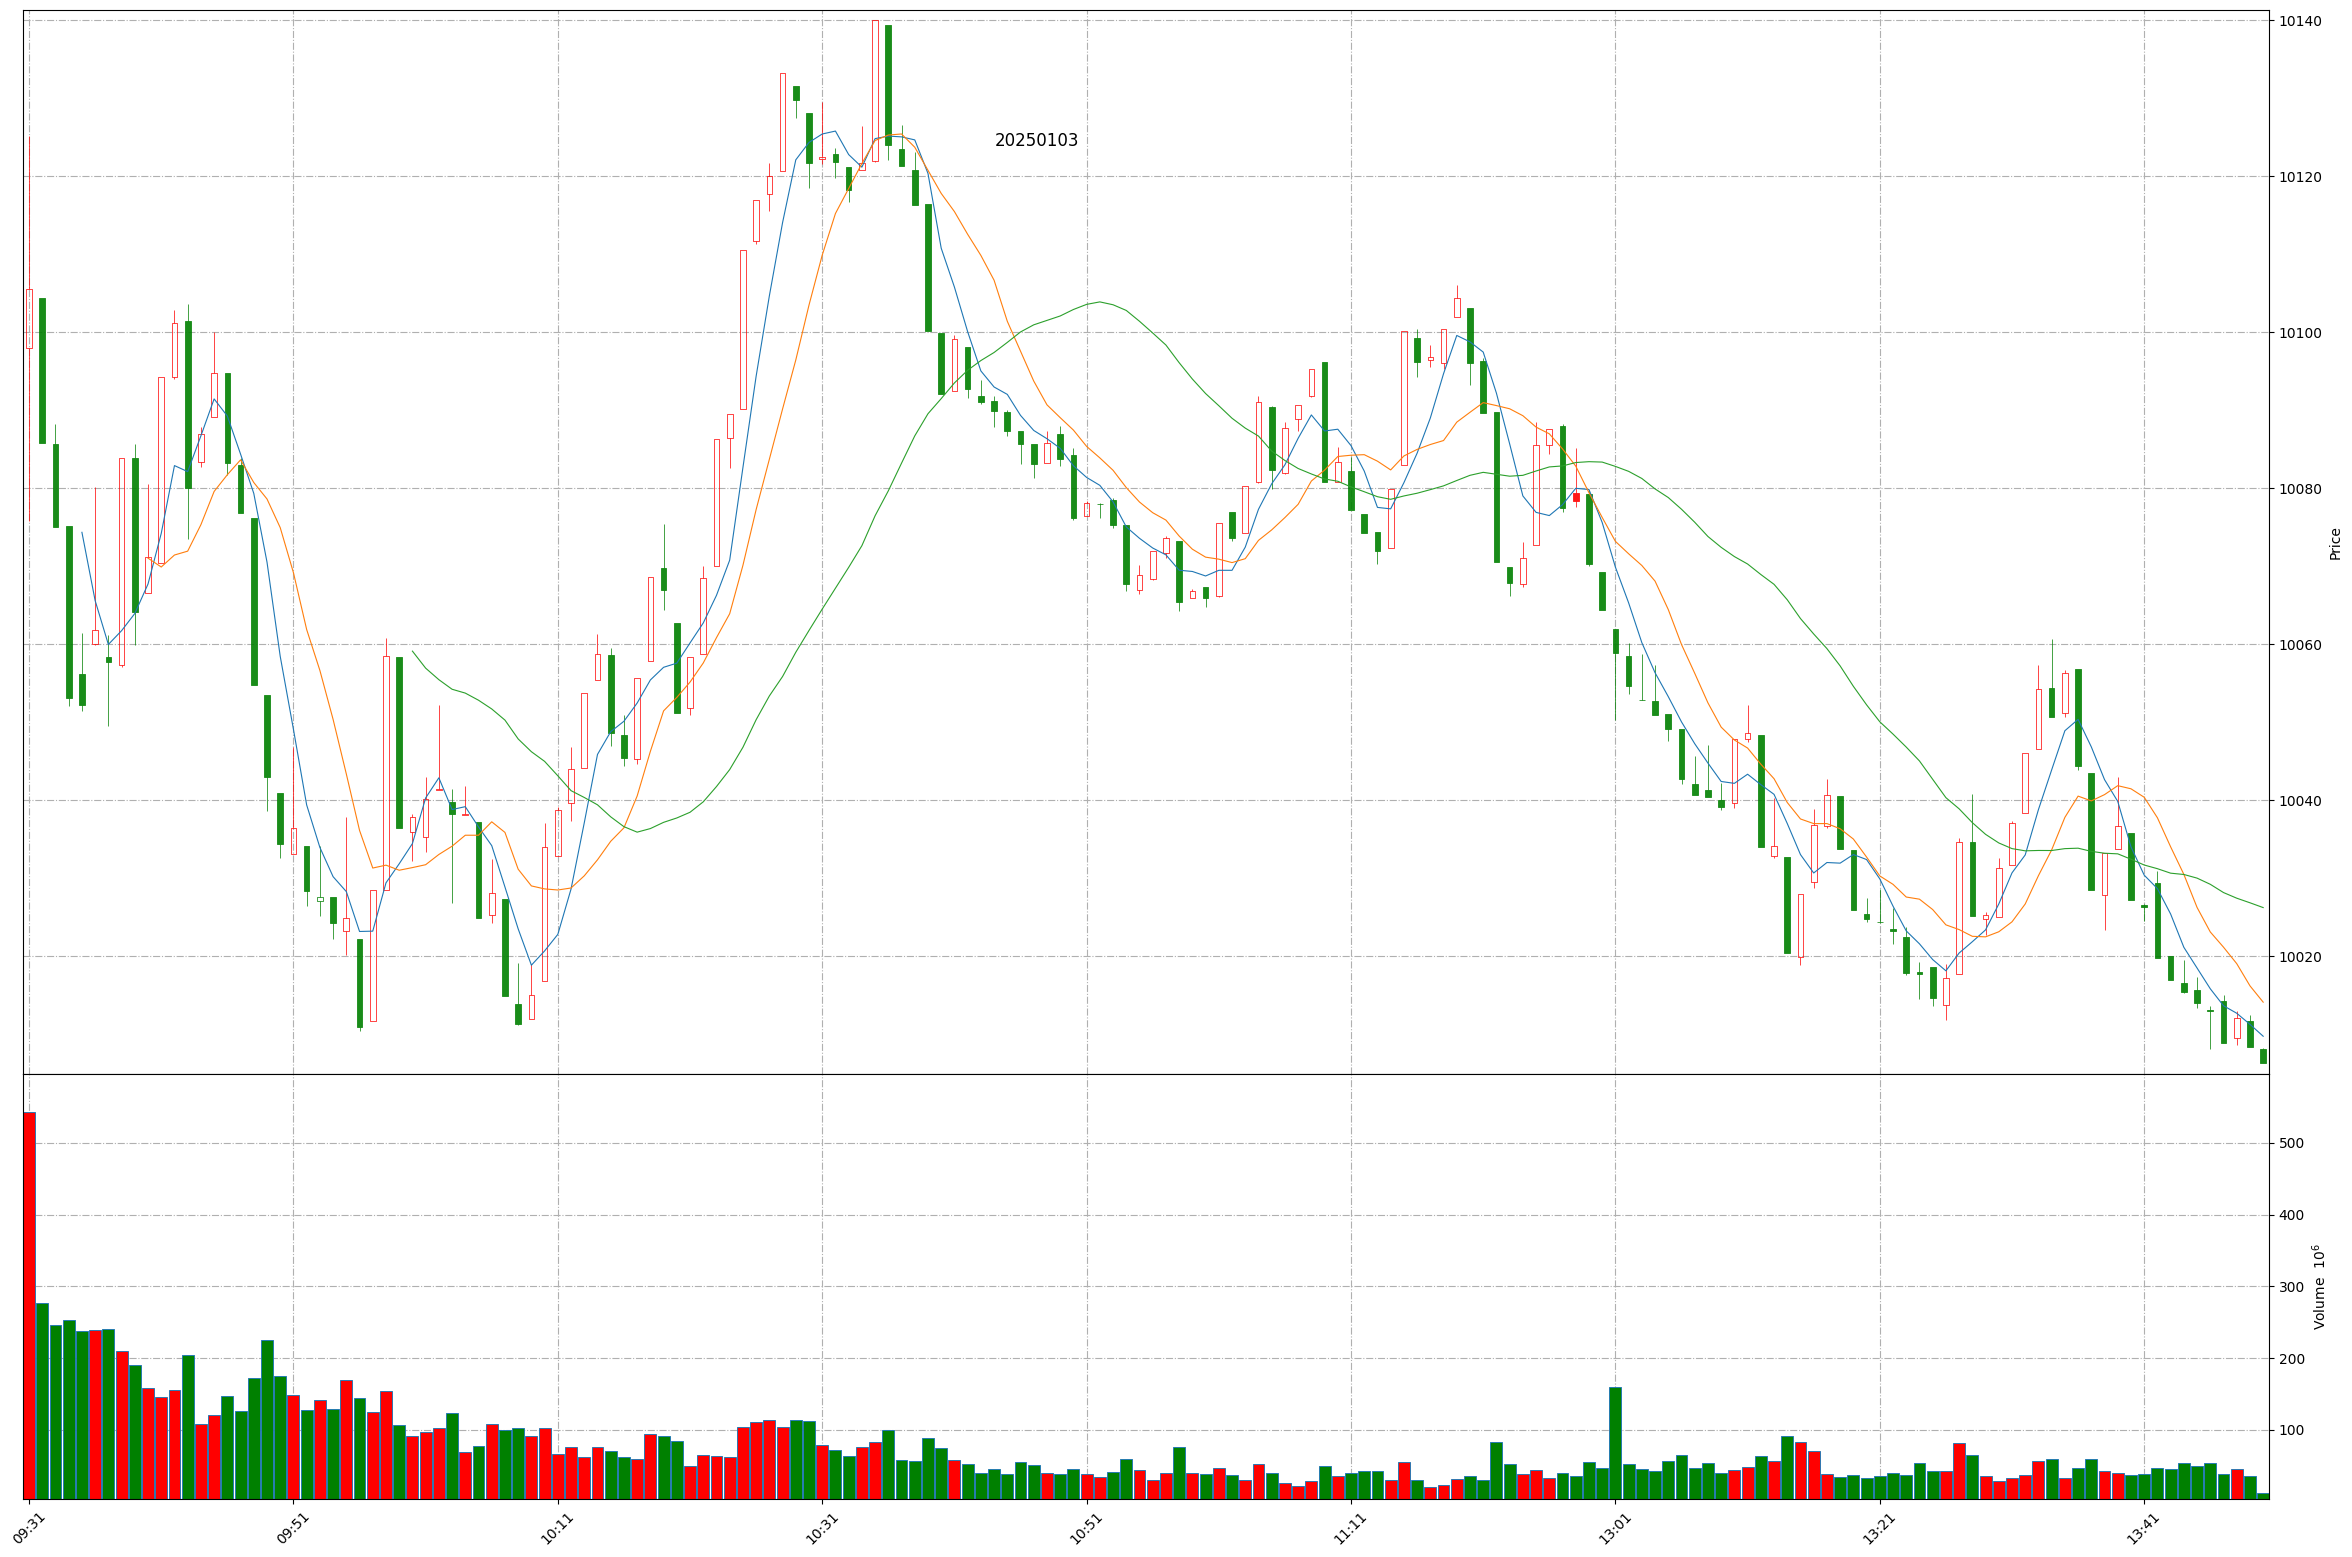
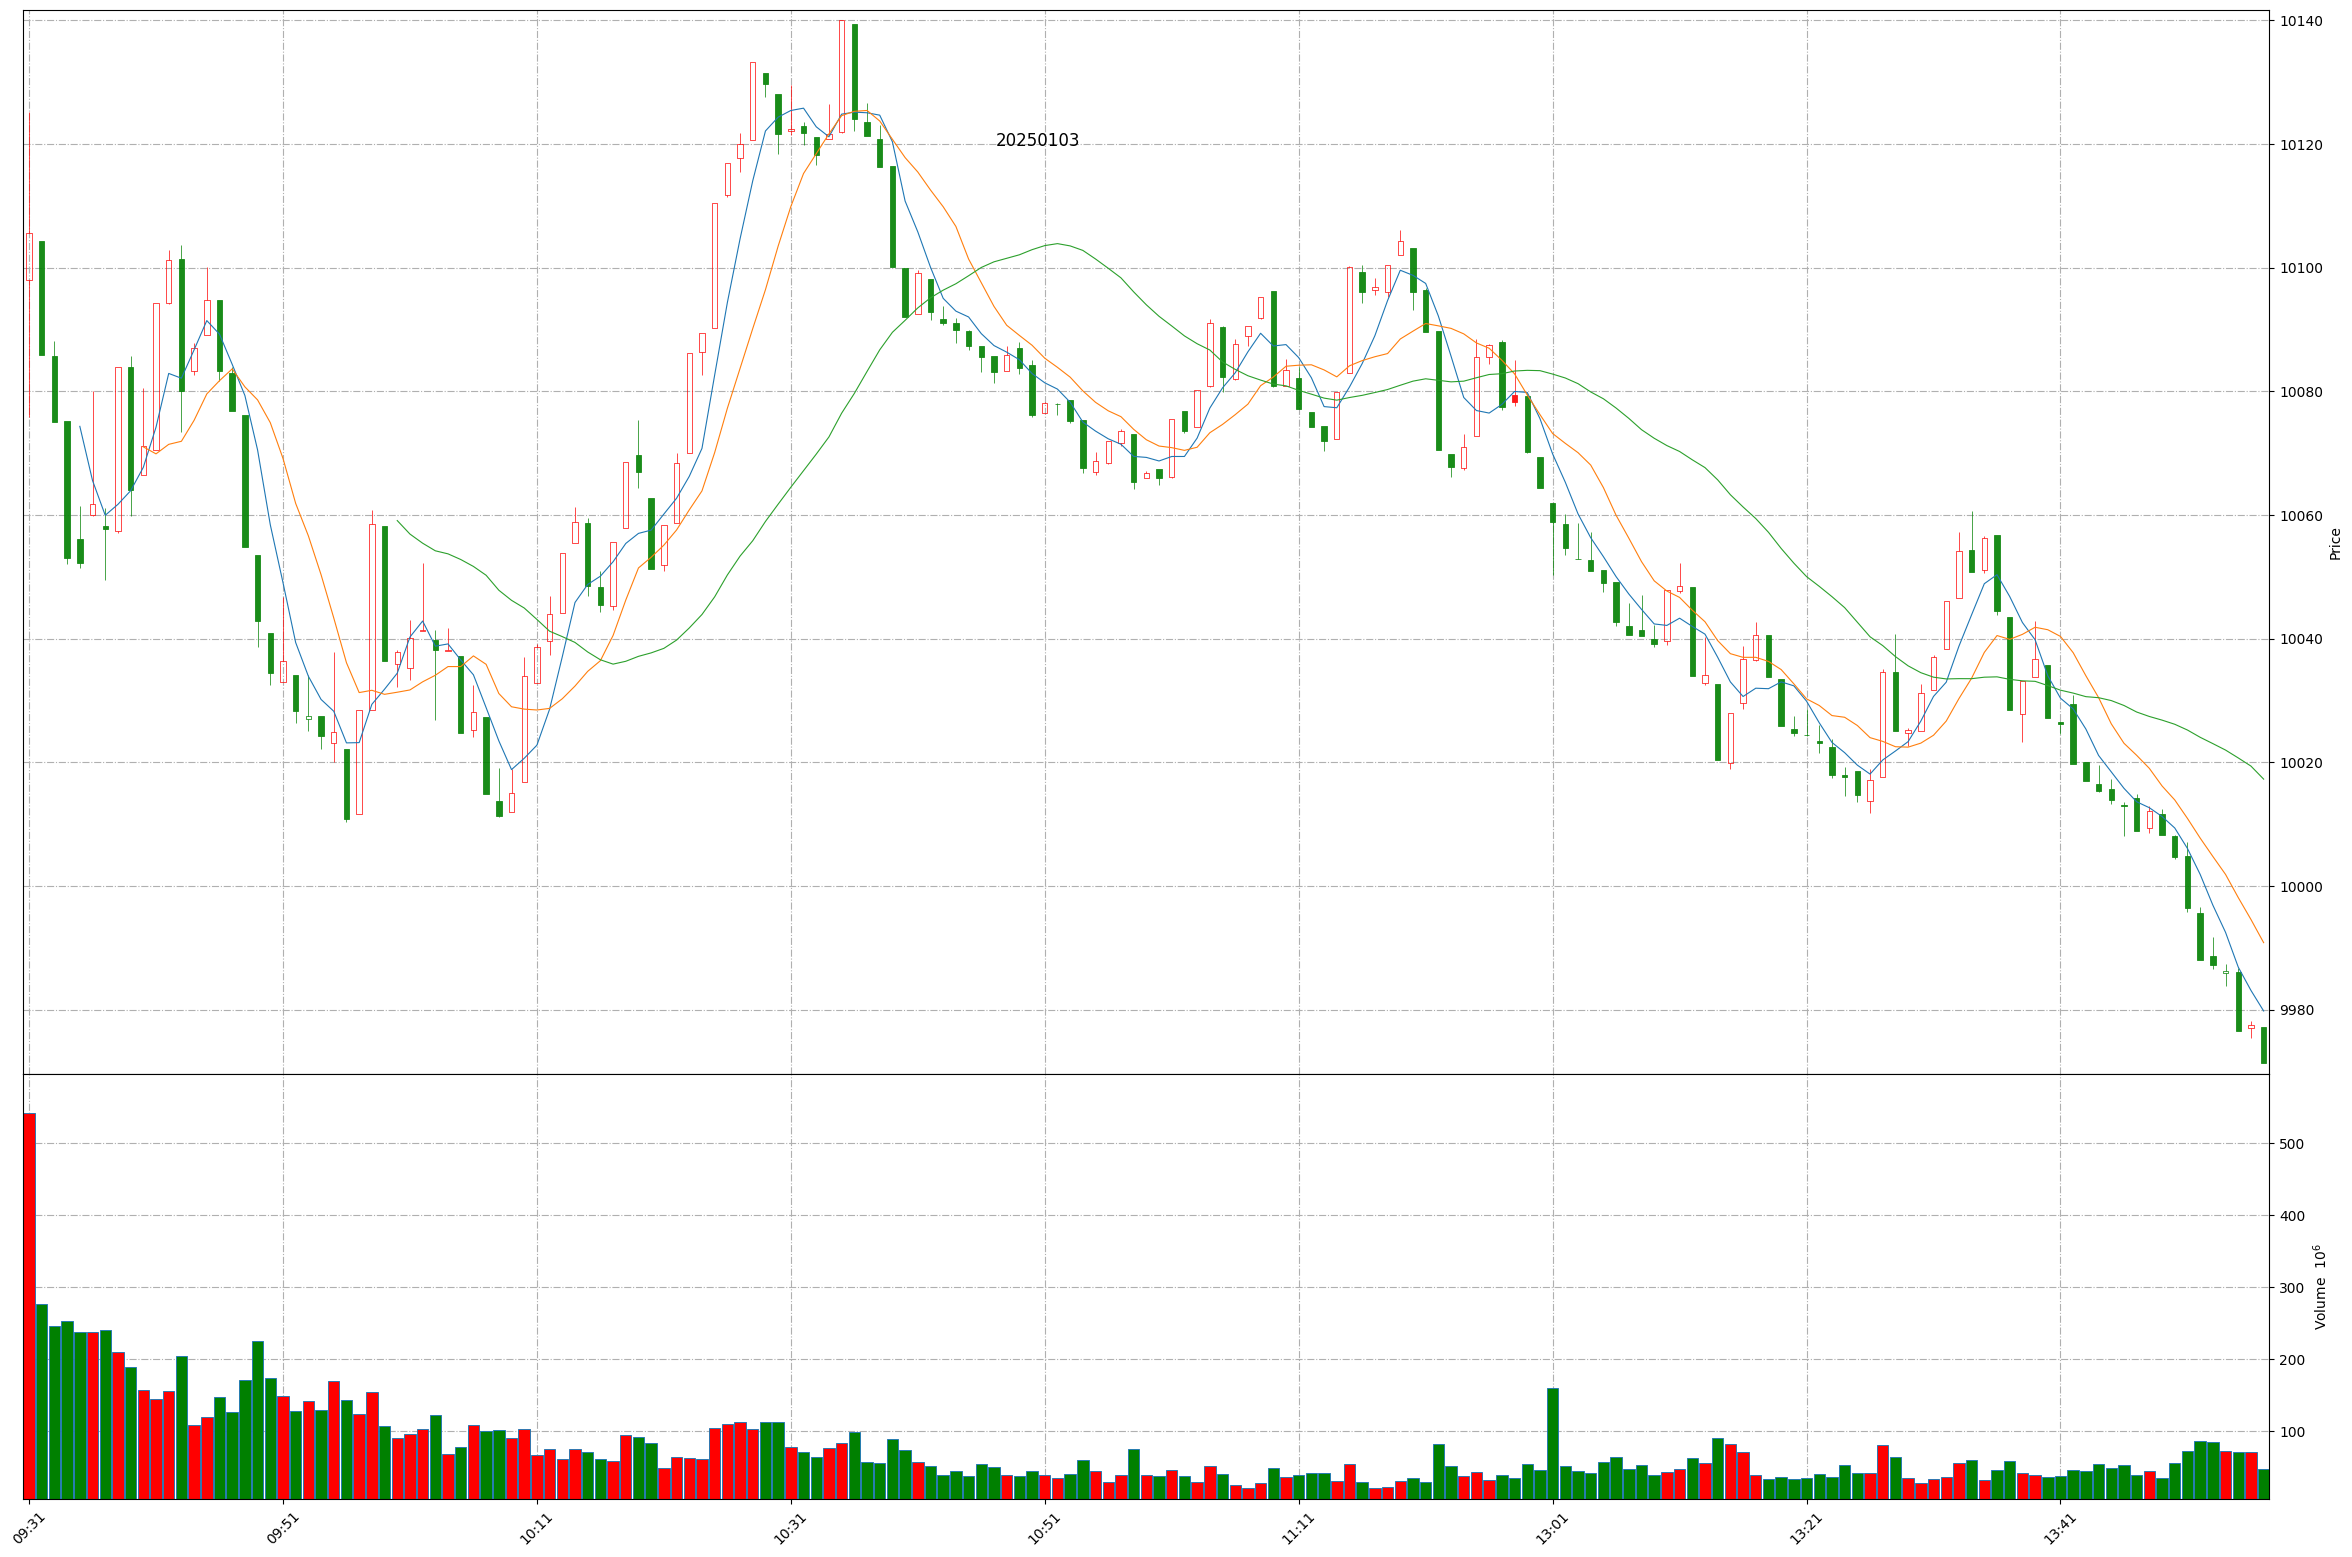
Github action update at 2025-01-03 13:56:50.

diff --git a/README.md b/README.md
@@ -1,11 +1,11 @@
 
 # Daily-A-share-market-quotes 每日 A 股指数（5min 更新）- 20250103
 
-### 上证指数 20250103 13:49
+### 上证指数 20250103 13:56
 ![](./fig/2025/1/20250103-sh000001.png)
 
-### 深证成指 20250103 13:49
+### 深证成指 20250103 13:56
 ![](./fig/2025/1/20250103-sz399001.png)
 
-### 北证50 20250103 13:49
+### 北证50 20250103 13:56
 ![](./fig/2025/1/20250103-bj899050.png)
